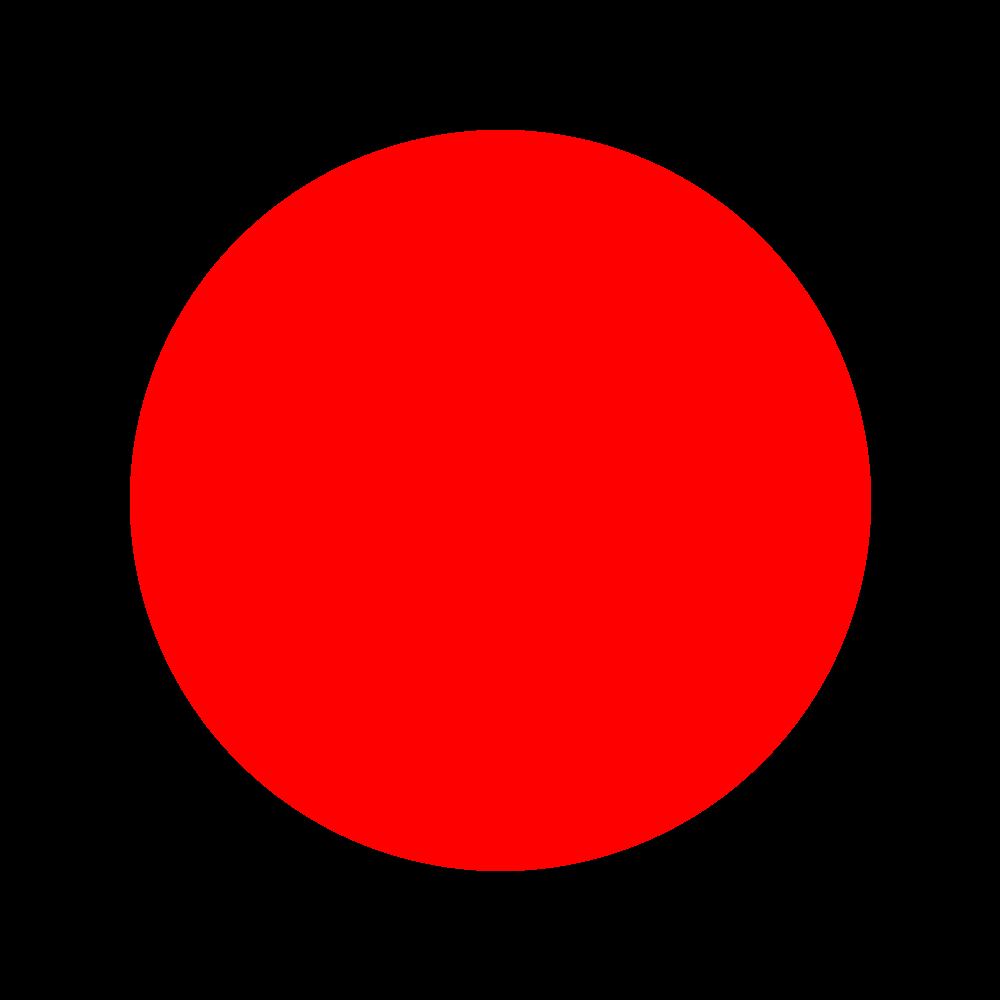
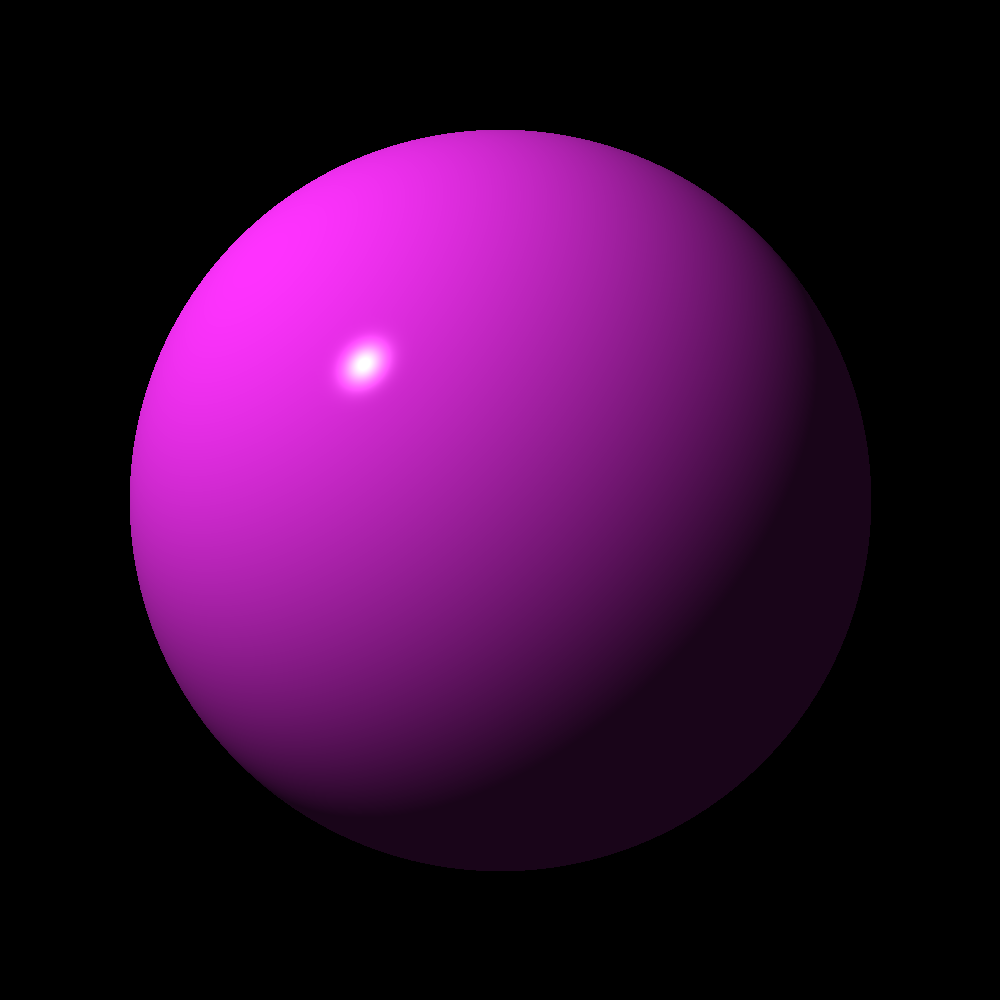
Rendered Sphere using Phong model

diff --git a/src/main.cpp b/src/main.cpp
@@ -10,6 +10,8 @@
 #include "TJRayTracer/TF.h"
 #include "TJRayTracer/BaseObject.h"
 #include "TJRayTracer/Sphere.h"
+#include "TJRayTracer/Material.h"
+#include "TJRayTracer/PointLight.h"
 #include <vector>
 
 int main()
@@ -21,8 +23,12 @@ int main()
     double wall_z = 10;
     double pixel_size = (double)wall_size/height;
     TJRayTracer::Canvas canvas(width,height);
-    TJRayTracer::Color red(1,0,0);
     TJRayTracer::BaseObject *shape = new TJRayTracer::Sphere();
+    shape->material = TJRayTracer::Material();
+    shape->material.color = TJRayTracer::Color(1,0.2,1);
+    TJRayTracer::Point light_position(-10, 10, -10);
+    TJRayTracer::Color light_color(1,1,1);
+    TJRayTracer::PointLight light(std::move(light_position), std::move(light_color));
     shape->SetTransform(TJRayTracer::TF::scaling(1.2,1.2,1.2));
     TJRayTracer::Point ray_origin(0,0,-5);
     for (std::size_t y=0; y<height; ++y)
@@ -35,9 +41,15 @@ int main()
 
             auto r = TJRayTracer::Ray(ray_origin,(position-ray_origin).normalize());
             auto xs = shape->intersect(r);
-            if (shape->hit(xs).object!= nullptr)
+            auto hit = shape->hit(xs);
+            if (hit.object!= nullptr)
             {
-                canvas.SetPixelColor(x,y,red);
+                auto point = r.position(hit.t);
+                auto normal = shape->normal_at(point);
+                auto direction_of_ray = r.GetDirection();
+                auto eye = -direction_of_ray;
+                auto color = TJRayTracer::PointLight::lighting(hit.object->material, light, point, eye, normal);
+                canvas.SetPixelColor(x,y,color);
             }
         }
     }
